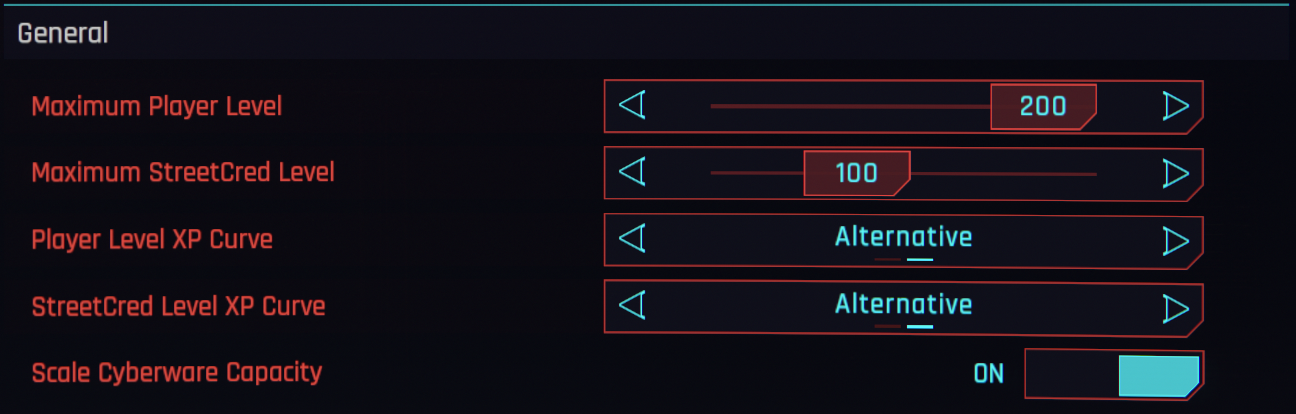
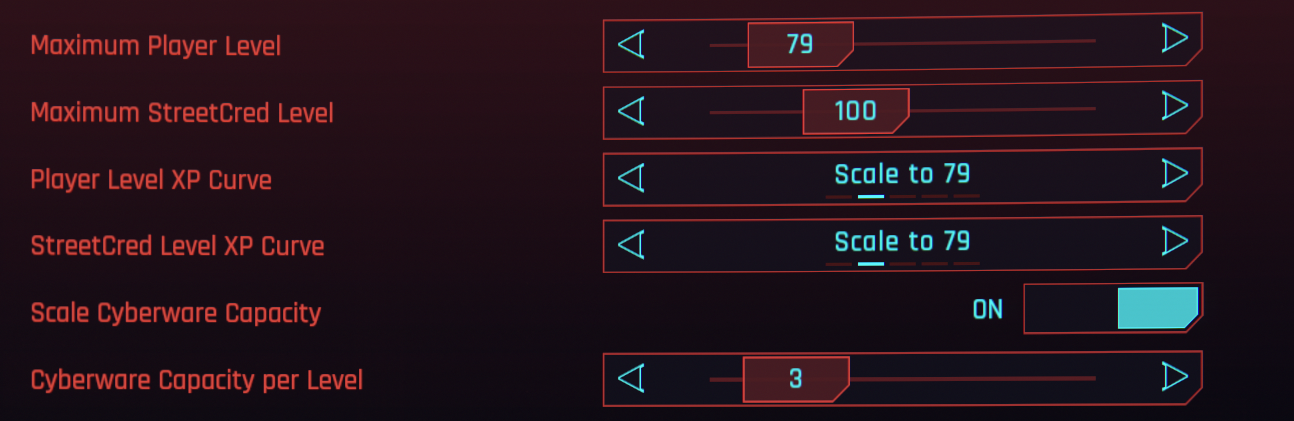
update docs for release 1.2.0

diff --git a/src/mods/MoreLevels/README.md b/src/mods/MoreLevels/README.md
@@ -26,7 +26,7 @@ This mod is compatible with Cyberpunk 2077 version 2.3 and 2.21.
 
 ## Configuration
 
-You can configure the max player level in the "Mod Settings" menu. By default this mod sets it to 79, which allows you to max out all attributes. You could also increase it up to 200, allowing you unlock and max out every perk as well. There is a toggle for cyberware capacity scaling, which allows a cyberware capacity past the standard 500 limit, as you gain 3 per level, you can go past 500.
+You can configure the max player level in the "Mod Settings" menu. By default this mod sets it to 79, which allows you to max out all attributes. You could also increase it up to 200, allowing you unlock and max out every perk as well. There is a toggle for cyberware capacity scaling, which allows a cyberware capacity past the standard 500 limit, as you gain 3 per level, you can go past 500. You're also able to configure the amount with which cyberware capacity increases each level.
 
 Besides player level, you can also configure a maximum street cred level, up to 200. This doesn't give any extra rewards, it's just "number go up :)".
 
@@ -44,6 +44,6 @@ Once you open the game for the first time, click on "Mod Settings" in the main m
 
 ## Limitations
 
-For nearly all scenarios you're fine to edit settings while playing, but there is one case which may require you to restart your game for it to update. If you update something related to increasing cyberware capacity past the standard 500 (max level and the scale toggle), you might need to reload your save or restart your game for the change to take effect. This is really a non-issue as you likely naturally restart multiple times before passing the cap, but it is something to keep in mind.
+For nearly all scenarios you're fine to edit settings while playing, but there is one case which may require you to restart your game for it to update. If you update cyberware capacity or cyberware capacity per level, you might need to reload your save or restart your game for the change to take effect. This is really a non-issue as you likely naturally restart multiple times before passing the cap, but it is something to keep in mind.
 
 If you know how to fix this so it no longer requires a restart, please let me know (or create a PR on the [repo](https://github.com/Dunc4nNT/cyberpunk-2077-modding)) and I'll fix it in a future update!

diff --git a/src/mods/MoreLevels/docs/CHANGELOG.md b/src/mods/MoreLevels/docs/CHANGELOG.md
@@ -2,6 +2,8 @@
 
 ## [Unreleased][unreleased]
 
+## [Version 1.2.0][1.2.0]
+
 ### Added
 
 - Add more xp curve options.
@@ -10,6 +12,7 @@
 ### Changed
 
 - Create xp curves using redscript instead of in a .archive file.
+- Larger range of xp multiplier options (0.05 - 5.0 instead of 0.5 - 5.0).
 - Use `Character.PlayerCyberwareSystem_inline11.value` instead of hardcoding 3 cyberware per level.
 - Refactor code.
 
@@ -38,5 +41,6 @@
 - Add cyberware cap scaling past 500 with increased levels.
 
 [unreleased]: https://github.com/Dunc4nNT/cyberpunk-2077-modding/compare/morelevels-1.1.0...HEAD
+[1.2.0]: https://github.com/Dunc4nNT/cyberpunk-2077-modding/compare/morelevels-1.1.0...morelevels-1.2.0
 [1.1.0]: https://github.com/Dunc4nNT/cyberpunk-2077-modding/compare/morelevels-1.0.0...morelevels-1.1.0
 [1.0.0]: https://github.com/Dunc4nNT/cyberpunk-2077-modding/releases/tag/morelevels-1.0.0
